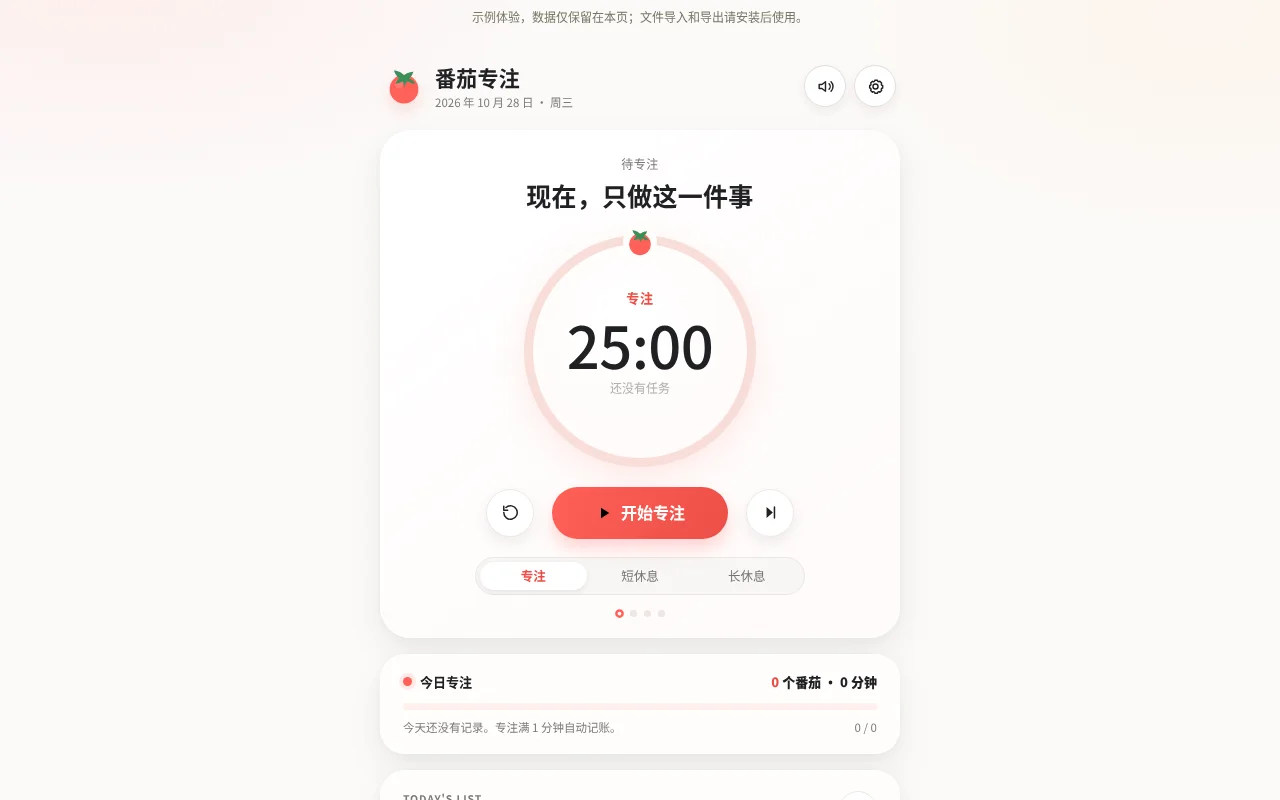
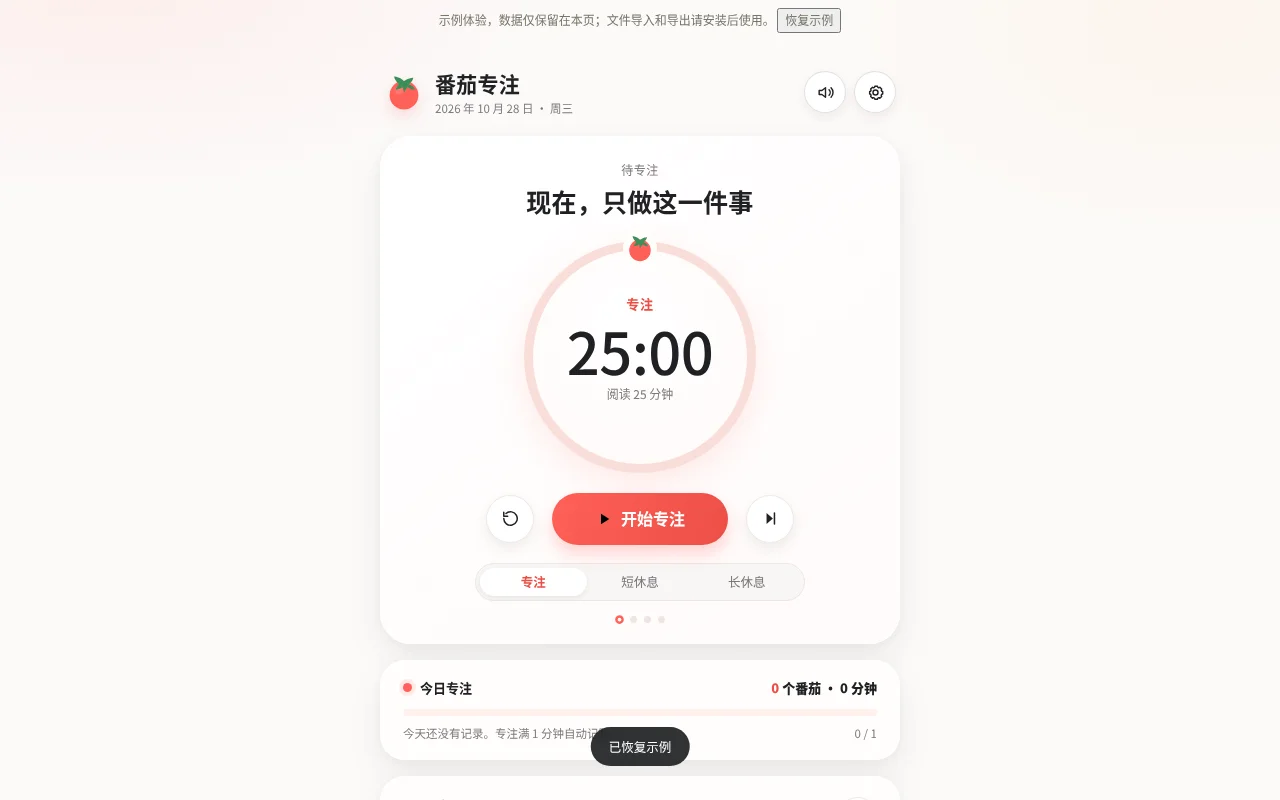
Fix hosted timer fallback and improve preview

diff --git a/wb1024-c562-88d2cb1e/showcase/preview.html b/wb1024-c562-88d2cb1e/showcase/preview.html
@@ -631,7 +631,7 @@ input[type="range"]::-webkit-slider-thumb {
 @media (prefers-reduced-motion: reduce) {
   * { transition: none !important; animation: none !important; }
 }
-</style></head><body><div style="text-align:center;font-size:12px;color:#776;padding:8px">示例体验，数据仅保留在本页；文件导入和导出请安装后使用。</div>
+</style></head><body><div style="text-align:center;font-size:12px;color:#776;padding:8px">示例体验，数据仅保留在本页；文件导入和导出请安装后使用。 <button id="restoreExample" type="button">恢复示例</button></div>
 
 <div class="page">
 
@@ -2080,11 +2080,8 @@ window.AudioEngine = (function () {
   }
 
   function startTick() {
-    if (worker) {
-      worker.postMessage('start');
-    } else if (!fallbackTimer) {
-      fallbackTimer = setInterval(() => { if (running) tick(); }, 250);
-    }
+    if (worker) worker.postMessage('start');
+    if (!fallbackTimer) fallbackTimer = setInterval(() => { if (running) tick(); }, 250);
   }
 
   function stopTick() {
@@ -2702,6 +2699,16 @@ window.AudioEngine = (function () {
 
     initTick();
 
+    function restoreExample() {
+      stopTick(); Audio.stop(); running = false; focusElapsed = 0; segmentStart = 0; completedRounds = 0;
+      S = clone(DEFAULT_SETTINGS); D = { dayKey: todayKey(), tasks: [], activeTaskId: null, records: [] };
+      setPhase('focus'); addTask('阅读 25 分钟'); renderTasks(); renderStats(); applySettingsToUI(); Audio.setVolume(S.volume);
+      document.querySelectorAll('dialog[open]').forEach(d => d.close());
+      document.querySelectorAll('#focusOverlay,#alertOverlay,#askOverlay').forEach(el => el.classList.add('hidden'));
+      toast('已恢复示例');
+    }
+    document.querySelector('#restoreExample').addEventListener('click', restoreExample);
+    restoreExample();
     // 跨天检查
     setInterval(rolloverIfNeeded, 30000);
     // 同步剩余时间到标题（Worker 已负责主循环，这里只兜底）
@@ -2732,4 +2739,4 @@ window.AudioEngine = (function () {
   }
 
 })();
-</script><script>document.querySelectorAll("#btnExportCsv,#btnExportJson,#btnImportJson").forEach(b=>{b.disabled=true;b.title="安装后使用"});document.querySelector("#addTaskForm button[type=submit]")?.addEventListener("click",e=>{e.preventDefault();document.querySelector("#addTaskForm").dispatchEvent(new Event("submit",{cancelable:true}));});</script></body></html>
+</script><script>document.querySelectorAll("#btnExportCsv,#btnExportJson,#btnImportJson,#btnClearData").forEach(b=>{b.disabled=true;b.title="安装后使用"});document.querySelector("#addTaskForm button[type=submit]")?.addEventListener("click",e=>{e.preventDefault();document.querySelector("#addTaskForm").dispatchEvent(new Event("submit",{cancelable:true}));});</script></body></html>

diff --git a/wb1024-c562-88d2cb1e/src/app.js b/wb1024-c562-88d2cb1e/src/app.js
@@ -587,11 +587,10 @@
   }
 
   function startTick() {
-    if (worker) {
-      worker.postMessage('start');
-    } else if (!fallbackTimer) {
-      fallbackTimer = setInterval(() => { if (running) tick(); }, 250);
-    }
+    if (worker) worker.postMessage('start');
+    // A blocked blob Worker can fail asynchronously under the host CSP.
+    // Keep a timer as a fallback; tick is based on wall time and is idempotent.
+    if (!fallbackTimer) fallbackTimer = setInterval(() => { if (running) tick(); }, 250);
   }
 
   function stopTick() {
